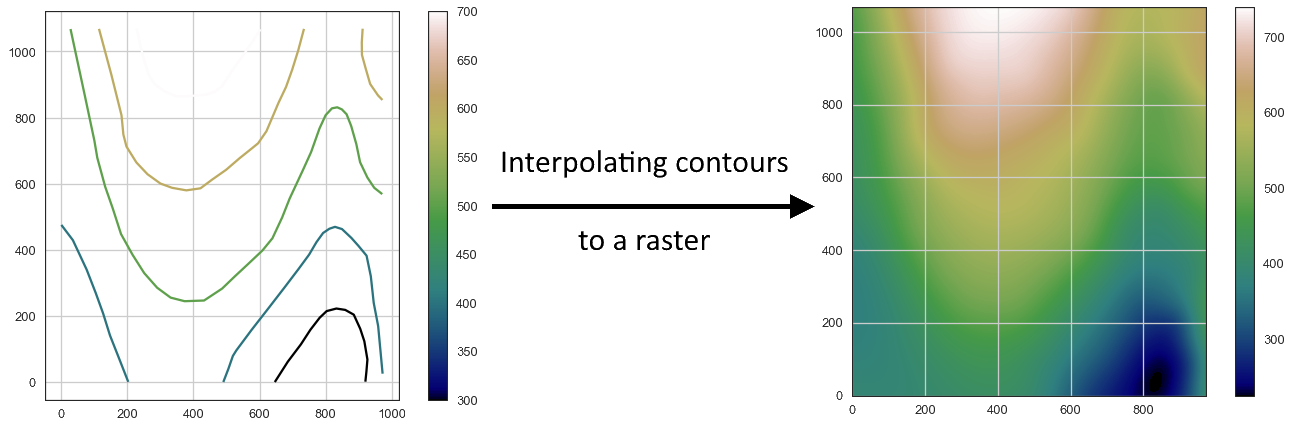
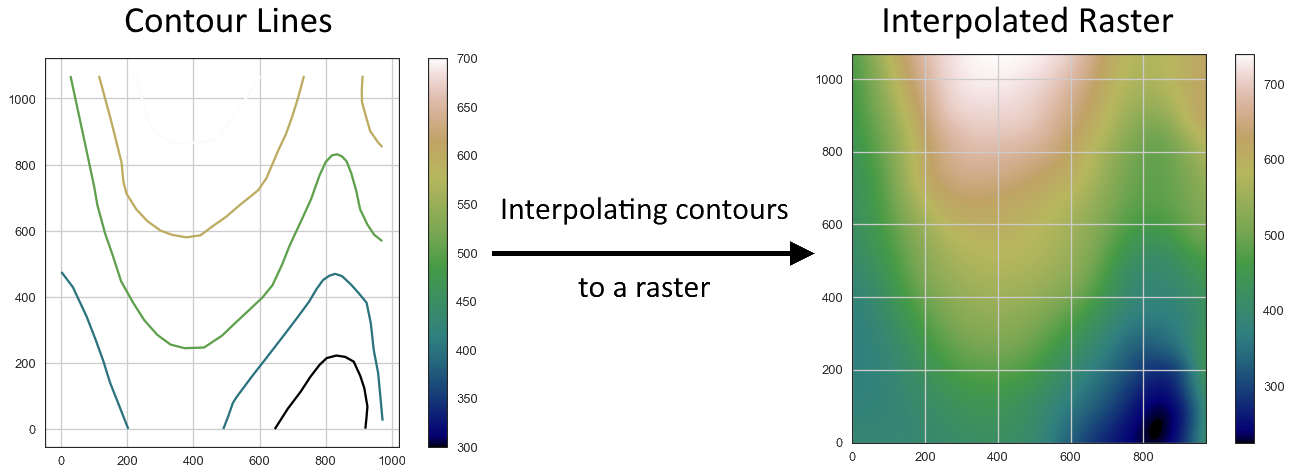
'EditReadme'

diff --git a/README.md b/README.md
@@ -109,3 +109,20 @@ Check out the [Installation Page](https://gemgis.readthedocs.io/en/latest/gettin
 </table>
 </p>
 
+#### Interpolating Vector Data to Rasters
+
+<p>
+<table>
+<tr>
+
+<td>
+<a href="https://gemgis.readthedocs.io/en/latest/getting_started/tutorial/05_interpolating_rasters.html">
+<img alt="extracting vertices from vector data" src="docs/getting_started/images/tutorial05_cover.png" width="400" class="center" />
+</a>
+</td>
+
+
+</tr>
+</table>
+</p>
+
